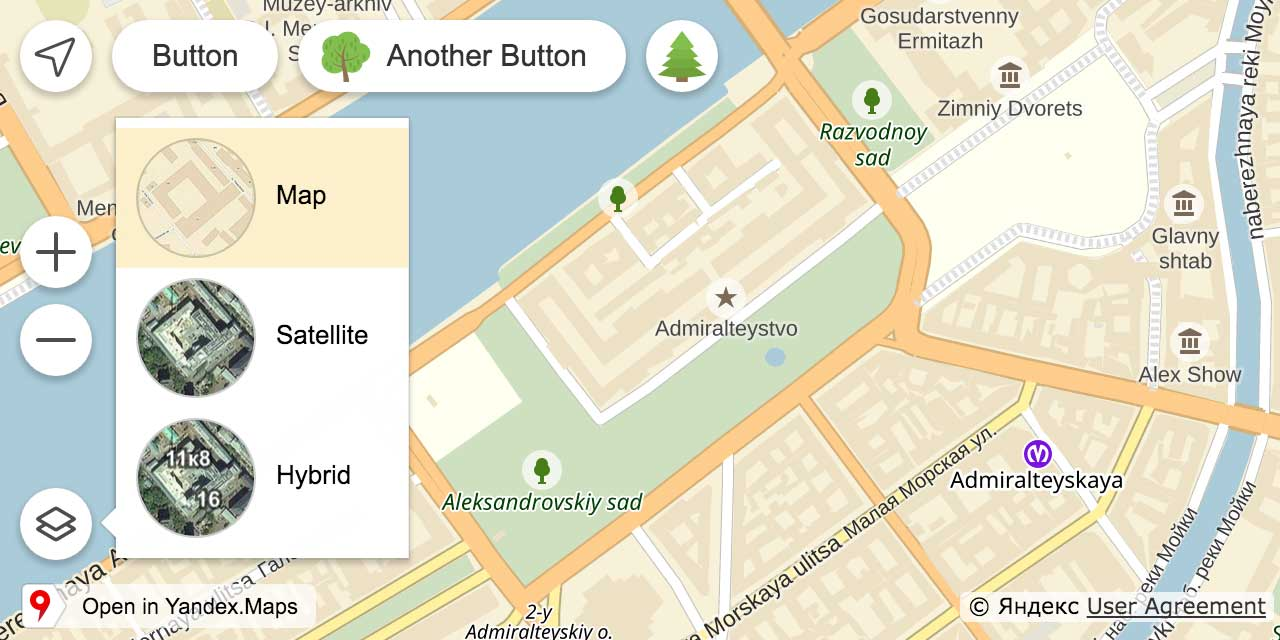
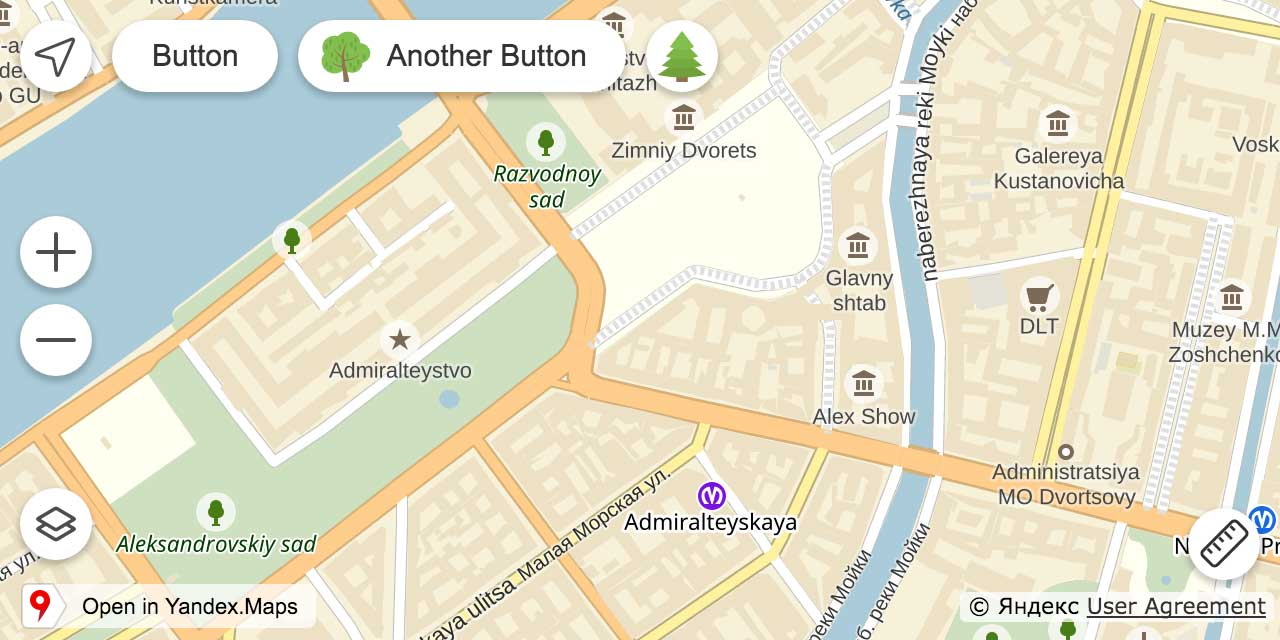
Minor fixes in the example and new screenshot

diff --git a/examples/index.html b/examples/index.html
@@ -20,7 +20,7 @@
         ymaps.ready(function () {
             var myMap = new ymaps.Map('map', {
                 center: [59.93772, 30.313622],
-                zoom: 10,
+                zoom: 15,
                 controls: []
             });
 
